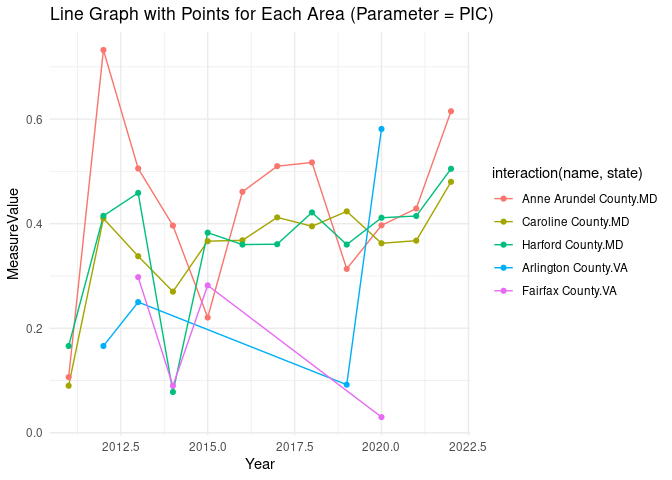
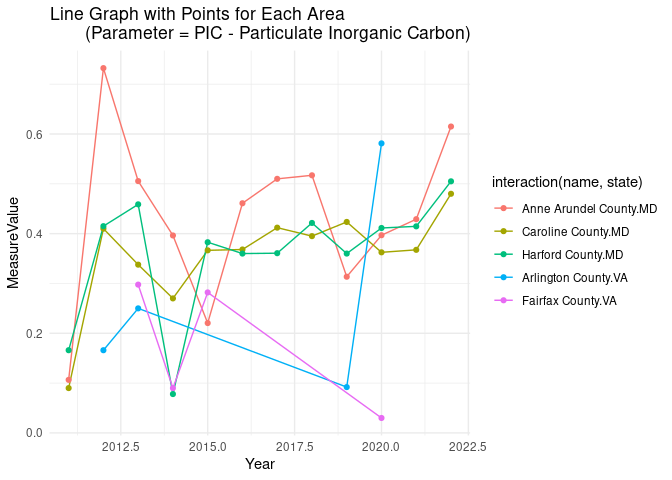
Suggested changes

diff --git a/README.md b/README.md
@@ -14,8 +14,6 @@ knitr::include_graphics("7F259009-BD11-47D9-8DE5-60E40B50B84E.jpeg")
 
 ![](7F259009-BD11-47D9-8DE5-60E40B50B84E.jpeg)
 
-=======
-
 ## Data Wrangling
 
 **Outcome variable**
@@ -101,7 +99,7 @@ plot(cva, add=TRUE)
 ![](README_files/figure-commonmark/unnamed-chunk-4-1.png)
 
 To take into account total precipitation and average storm-water runoff
-data we used data from NASA Earth Data. Our data came from GLDAS Noah
+data we used data from NASA Earth Data. Our data came from GLDAS NOAA
 Land Surface Model.
 
 ## Preliminary Results
@@ -201,7 +199,8 @@ ggplot(year_sum_PIC, aes(x = Year, y = MeasureValue, group = interaction(name, s
   geom_line() +
   geom_point() +
   theme_minimal() +
-  labs(title = "Line Graph with Points for Each Area (Parameter = PIC)",
+  labs(title = "Line Graph with Points for Each Area 
+       (Parameter = PIC - Particulate Inorganic Carbon)",
        x = "Year",
        y = "MeasureValue")
 ```
@@ -220,7 +219,8 @@ ggplot(year_sum_TON, aes(x = Year, y = MeasureValue, group = interaction(name, s
   geom_line() +
   geom_point() +
   theme_minimal() +
-  labs(title = "Line Graph with Points for Each Area (Parameter = TON)",
+  labs(title = "Line Graph with Points for Each Area 
+       (Parameter = TON - Total Organic Nitrogen)",
        x = "Year",
        y = "MeasureValue")
 ```
